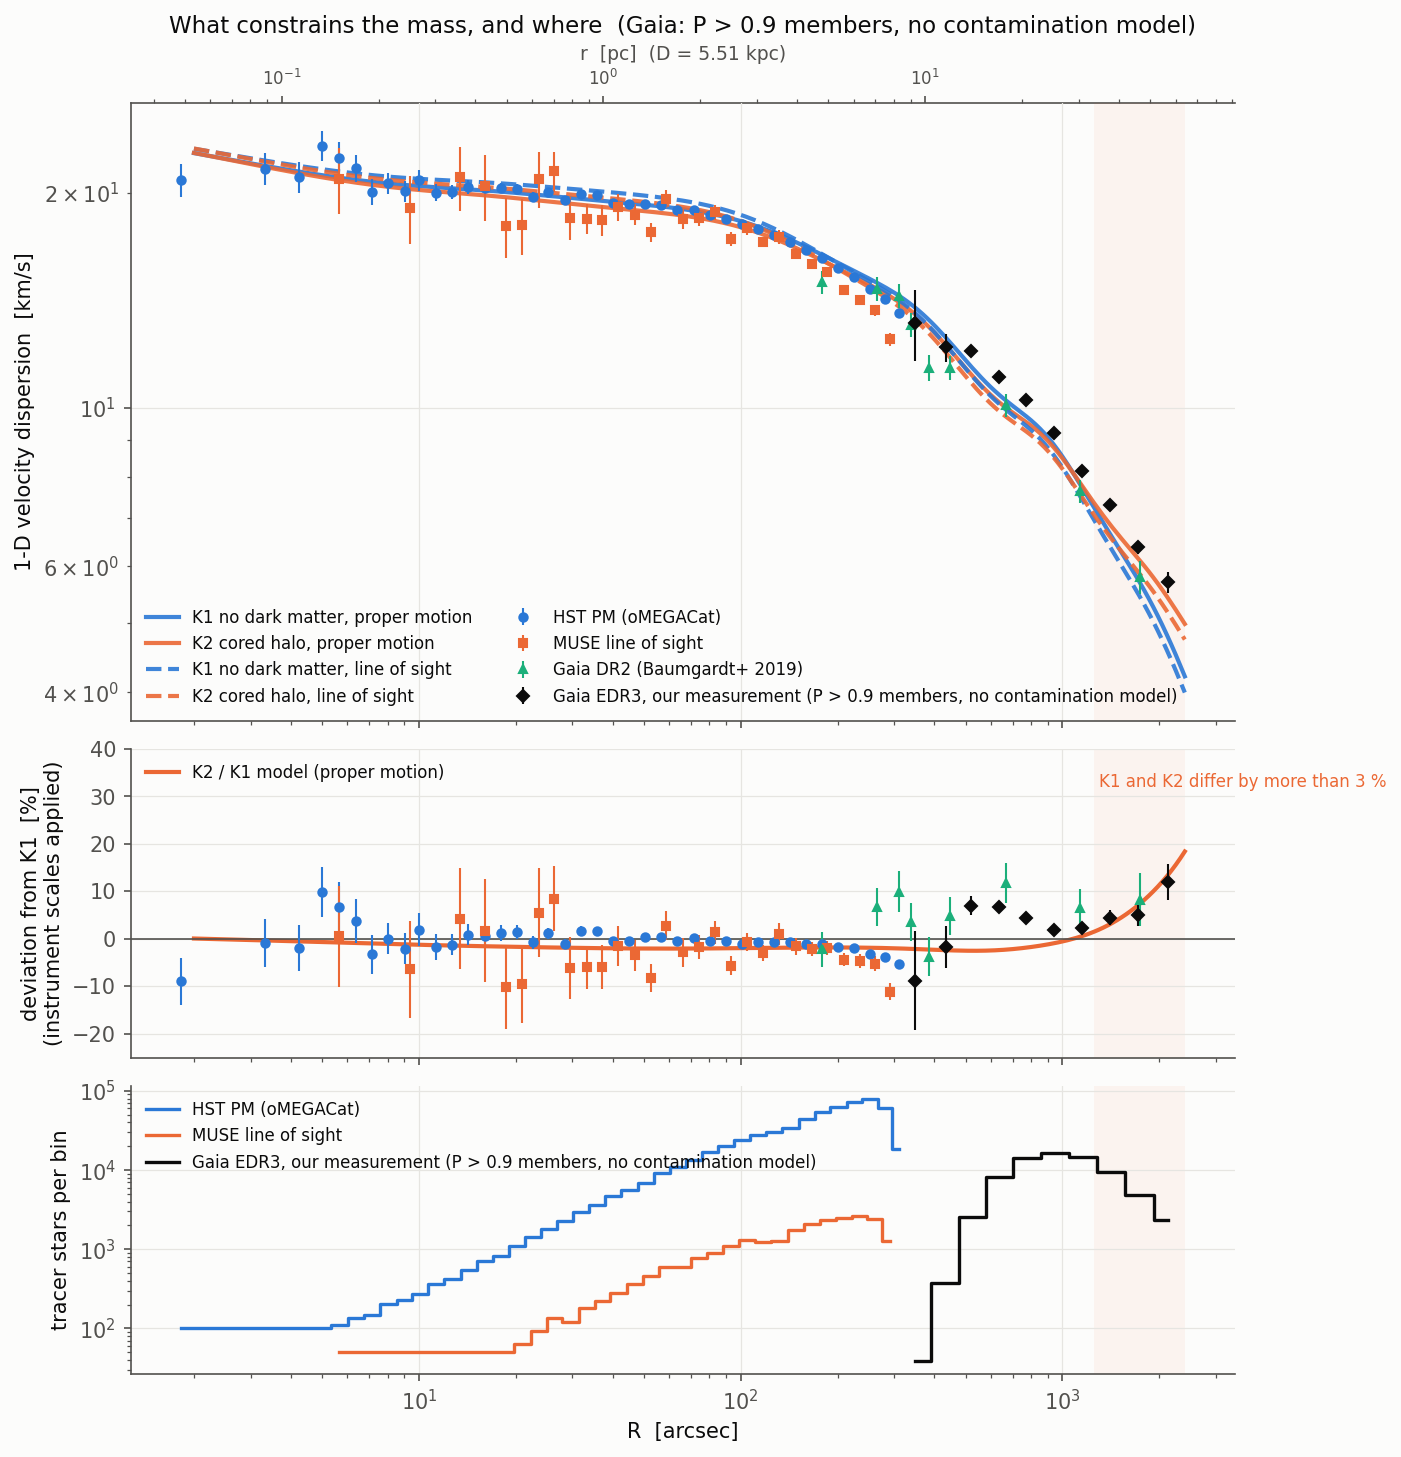
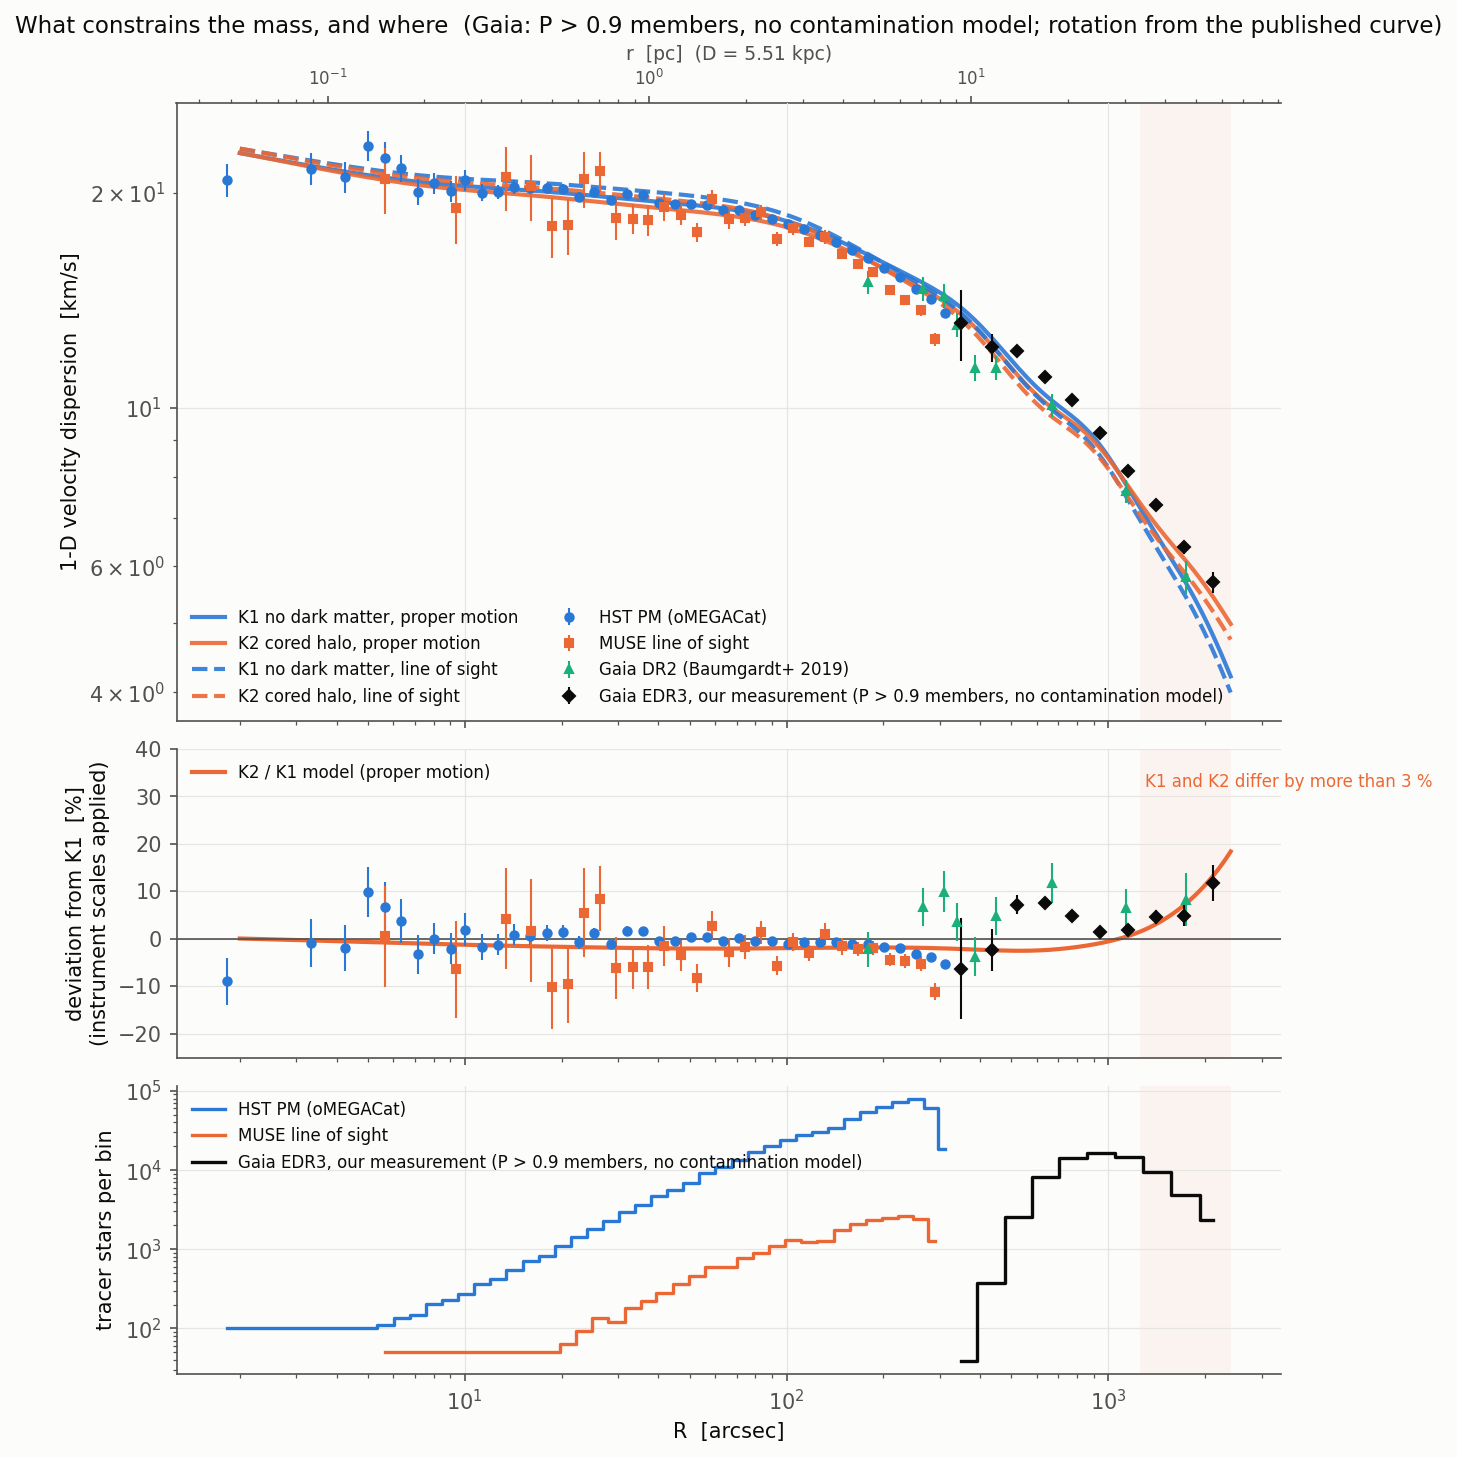
Keep both streaming treatments: four constraint maps (field modelled / P-cut) x (own means / published rotation curve)

diff --git a/src/ocen_dm/plotting/constraints.py b/src/ocen_dm/plotting/constraints.py
@@ -138,11 +138,16 @@ def _sigma_1d_kms(jeans, D: float, R_arcsec: np.ndarray, kind: str = "pm") -> np
     return np.sqrt(0.5 * (m["pmr"] ** 2 + m["pmt"] ** 2)) if kind == "pm" else m["los"]
 
 
-def _datasets_in_kms(D: float, contamination_modelled: bool = True) -> list[dict]:
+def _datasets_in_kms(D: float, contamination_modelled: bool = True, streaming: str = "self") -> list[dict]:
     """Every dispersion dataset converted to a 1-D dispersion in km/s.
 
     ``contamination_modelled`` selects our Gaia measurement: the cluster+field mixture over
     all quality stars (True) or the P > 0.9 members with the quality flag (False).
+    ``streaming`` selects how the rotation term is removed from the model for our own
+    points: ``'self'`` uses the mean motions fitted in the same annuli as the dispersions,
+    ``'published'`` uses the Vasiliev & Baumgardt rotation curve (the original treatment,
+    kept for comparison -- it over-subtracts by 10-40 per cent near the rotation peak and
+    manufactures a wiggle at 10-20 pc, JOURNAL 2026-09-18).
     """
     k = KMS_PER_MASYR_KPC * D
     out = []
@@ -171,7 +176,7 @@ def _datasets_in_kms(D: float, contamination_modelled: bool = True) -> list[dict
     # our own fit measures the mean motions as well, so the streaming term for these points
     # is measured rather than taken from the published rotation curve
     stream2 = None
-    if "mean_pmt" in ours.colnames:
+    if streaming == "self" and "mean_pmt" in ours.colnames:
         stream2 = 0.5 * (np.asarray(ours["mean_pmr"]) ** 2 + np.asarray(ours["mean_pmt"]) ** 2) * k**2
     out.append(dict(name=name, r=np.asarray(ours["r_median"]), sigma=np.asarray(ours["sigma_pm"]) * k,
                     err=np.asarray(ours[errcol]) * k, n=n, kind="pm", color=style.INK, marker="D",
@@ -182,12 +187,12 @@ def _datasets_in_kms(D: float, contamination_modelled: bool = True) -> list[dict
 
 def plot_constraint_map(path: Path | str = "plots/constraint_map.png",
                         k1: str = "K1_noDM_composite", k2: str = "K2_cored_composite",
-                        contamination_modelled: bool = True) -> Path:
+                        contamination_modelled: bool = True, streaming: str = "self") -> Path:
     """All dispersion data in km/s with the K1 and K2 curves, their ratio, and the tracer counts."""
     style.apply()
     j1, D, s1, _ = _model(k1)
     j2, D2, s2, _ = _model(k2)
-    data = _datasets_in_kms(D, contamination_modelled)
+    data = _datasets_in_kms(D, contamination_modelled, streaming)
     R = np.geomspace(2.0, 2400.0, 220)
 
     fig, axes = plt.subplots(3, 1, figsize=(9.5, 11), sharex=True,
@@ -205,7 +210,8 @@ def plot_constraint_map(path: Path | str = "plots/constraint_map.png",
     ax.set_yscale("log"); ax.set_ylabel("1-D velocity dispersion  [km/s]")
     ax.legend(fontsize=8, ncol=2, loc="lower left")
     ax.set_title("What constrains the mass, and where"
-                 + ("  (Gaia: field contamination modelled)" if contamination_modelled else "  (Gaia: P > 0.9 members, no contamination model)"),
+                 + ("  (Gaia: field contamination modelled" if contamination_modelled else "  (Gaia: P > 0.9 members, no contamination model")
+                 + ("; rotation from our own fit)" if streaming == "self" else "; rotation from the published curve)"),
                  fontsize=11)
     add_pc_axis(ax, D)
 

diff --git a/src/ocen_dm/cli.py b/src/ocen_dm/cli.py
@@ -329,8 +329,16 @@ def cmd_plot_constraints(args: argparse.Namespace) -> int:
     for path in (plot_method_comparison(),
                  plot_annulus_fits("plots/outer_fit_annuli_radial.png", component="r"),
                  plot_annulus_fits("plots/outer_fit_annuli_tangential.png", component="t"),
-                 plot_constraint_map(k1=args.k1, k2=args.k2, contamination_modelled=True),
-                 plot_constraint_map("plots/constraint_map_pcut.png", k1=args.k1, k2=args.k2, contamination_modelled=False),
+                 # four constraint maps: {field modelled, P > 0.9} x {rotation from our own
+                 # fit, rotation from the published curve}
+                 plot_constraint_map("plots/constraint_map_selfconsistent.png", k1=args.k1, k2=args.k2,
+                                     contamination_modelled=True, streaming="self"),
+                 plot_constraint_map("plots/constraint_map.png", k1=args.k1, k2=args.k2,
+                                     contamination_modelled=True, streaming="published"),
+                 plot_constraint_map("plots/constraint_map_pcut_selfconsistent.png", k1=args.k1, k2=args.k2,
+                                     contamination_modelled=False, streaming="self"),
+                 plot_constraint_map("plots/constraint_map_pcut.png", k1=args.k1, k2=args.k2,
+                                     contamination_modelled=False, streaming="published"),
                  plot_outer_tracer_audit(reference="pcut"),
                  plot_outer_tracer_audit("plots/outer_tracer_audit_mixture.png", reference="mixture"),
                  plot_contamination_model()):

diff --git a/tests/test_constraints_plot.py b/tests/test_constraints_plot.py
@@ -88,3 +88,15 @@ def test_method_comparison_figure_and_agreement(tmp_path):
         assert np.median(np.abs(d) / e) < 2.0                # and consistent within the errors
     p = plot_method_comparison(tmp_path / "cmp.png")
     assert p.exists() and p.stat().st_size > 80_000
+
+
+@pytest.mark.skipif(not (_HAS_RUNS and _HAS_MEMBERS), reason="runs or members missing")
+def test_both_streaming_treatments_render_and_differ(tmp_path):
+    """Both versions are kept: the published rotation curve and our own fitted means."""
+    from ocen_dm.plotting.constraints import _datasets_in_kms, plot_constraint_map
+    a = _datasets_in_kms(5.43, True, "self")[-1]
+    b = _datasets_in_kms(5.43, True, "published")[-1]
+    assert a["streaming2"] is not None and b["streaming2"] is None
+    for name, stream in (("self.png", "self"), ("pub.png", "published")):
+        p = plot_constraint_map(tmp_path / name, streaming=stream)
+        assert p.exists() and p.stat().st_size > 80_000

diff --git a/JOURNAL.md b/JOURNAL.md
@@ -1920,3 +1920,18 @@ published rotation amplitude between 430 and 800 arcsec, and 40 per cent below i
 definition (a sinusoid amplitude fitted per annulus versus the azimuthal mean of the
 tangential component) or in the treatment of contamination. It does not affect the
 dispersions, but it should be understood before any rotation result is quoted.
+
+**Both versions kept (user request).** `plot_constraint_map(..., streaming=...)` selects how
+the rotation term is removed from the model for our own points, and `ocen plot-constraints`
+writes all four combinations:
+
+| file | Gaia measurement | rotation term |
+|---|---|---|
+| `constraint_map_selfconsistent.png` | field contamination modelled | our own fitted mean motions |
+| `constraint_map.png` | field contamination modelled | published Vasiliev & Baumgardt curve |
+| `constraint_map_pcut_selfconsistent.png` | P > 0.9 members | our own fitted mean motions |
+| `constraint_map_pcut.png` | P > 0.9 members | published curve |
+
+The titles state which treatment each uses. The self-consistent pair is the one to read: in
+the other two the model has 10-40 per cent too much rotation removed between 350 and 800
+arcsec, which is what produced the apparent wiggle at 10-20 pc.
